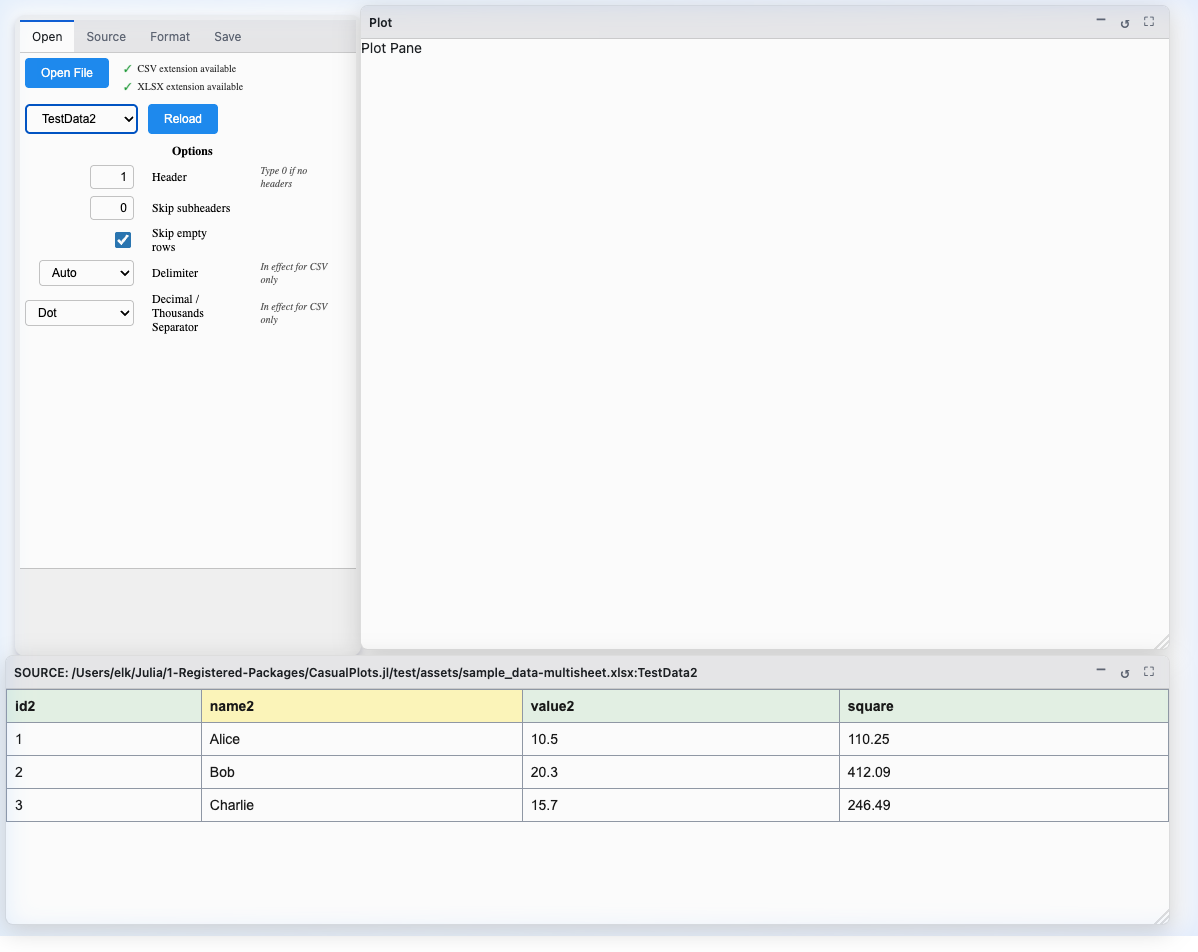
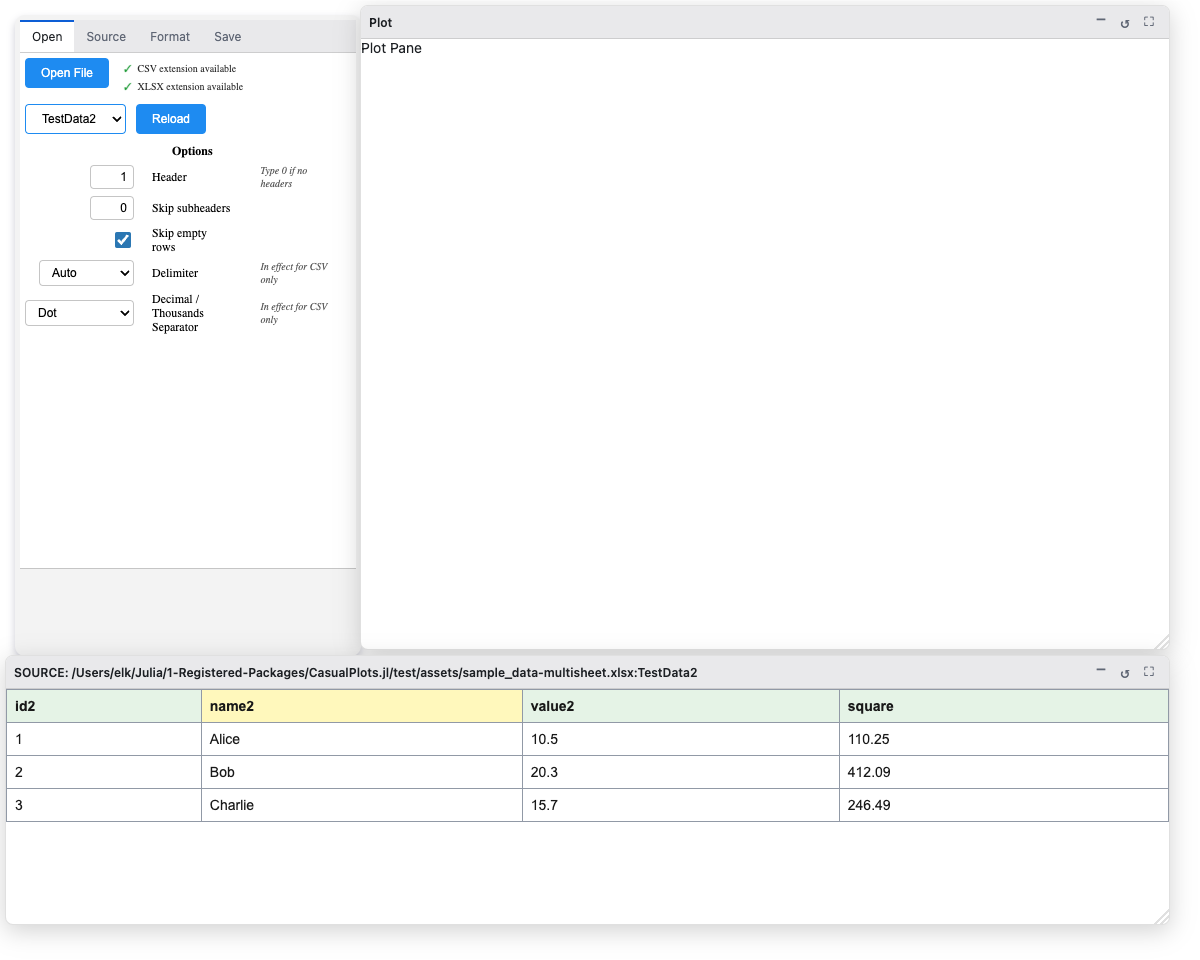
WIP creating screenshots programmatically

diff --git a/test/AgenticTesting/scripts/get_electron_id.swift b/test/AgenticTesting/scripts/get_electron_id.swift
@@ -1,0 +1,17 @@
+import Cocoa
+import CoreGraphics
+
+let options = CGWindowListOption(arrayLiteral: .excludeDesktopElements)
+if let windowInfoList = CGWindowListCopyWindowInfo(options, kCGNullWindowID) as? [[String: Any]] {
+    for info in windowInfoList {
+        if let owner = info[kCGWindowOwnerName as String] as? String,
+           let name = info[kCGWindowName as String] as? String,
+           let windowID = info[kCGWindowNumber as String] as? Int {
+            if owner == "Julia" && name == "Bonito App" {
+                print("\(windowID)")
+                exit(0)
+            }
+        }
+    }
+}
+exit(1)

diff --git a/AGENTS_more_info/specific_issues/agentic_screenshots.md b/AGENTS_more_info/specific_issues/agentic_screenshots.md
@@ -1,0 +1,55 @@
+# Agentic Creation of Reproducible Screenshots
+
+This document summarizes the established workflow for taking reproducible, automated screenshots of the `CasualPlots.jl` GUI via AI agents (or automated scripts) on macOS.
+
+## The Challenge
+`CasualPlots.jl` uses Bonito and WGLMakie, which rely heavily on WebSockets and JavaScript to render the DOM *after* the initial page load. 
+Because of this, standard headless browser capture commands (like `Google Chrome --headless --screenshot`) often fail or capture a blank 32KB white screen, because they execute the screenshot before the WebSockets have fully established and rendered the UI. 
+
+## The Solution: Electron + macOS `screencapture`
+The most robust native approach involves launching the app via `Electron.jl` (with the `frame=false` option to disable the macOS title bar), driving the UI programmatically using DOM interactions, and then using the macOS `screencapture` utility targeted at the Electron window's specific Window ID. 
+
+Using `screencapture -o -l <windowID>` captures the window cleanly without the OS drop shadow or window chrome, yielding a perfect crop of the internal Bonito UI.
+
+### Prerequisites
+- **Screen Recording Permissions**: The terminal running the automation (or the Antigravity agent) *must* be granted "Screen Recording" privileges in macOS System Settings > Privacy & Security.
+
+---
+
+## Complete Instructions for Agents to Reproduce a Snapshot
+
+If you (the Agent) are asked to update or reproduce a screenshot (for example, `docs/src/Screenshots/open_file_tab.png`), follow this exact protocol:
+
+1. **Locate the Generator**:
+   The logic for driving the GUI state is housed in `test/AgenticTesting/src/screenshot_generators.jl` inside the `AgenticTesting` module.
+   
+2. **Review/Update the GUI State**:
+   Open `screenshot_generators.jl` and ensure the function sets the GUI to the desired state. To simulate user interaction seamlessly, you can:
+   - Use `click_element_by_text(session, "Text")` to click buttons/tabs.
+   - Use `select_dropdown_value(session, css_selector, value)` to trigger dropdown changes.
+   - Temporarily `@eval` and override functions like `CasualPlots.FileDialogWorkAround.pick_file` if you need to bypass native OS dialogs (e.g., to force load a specific test file).
+   - Use `sleep()` strategically to wait for DOM updates and WebSocket communication.
+
+3. **Run the Standalone Script**:
+   Do **not** try to run the code line-by-line via the REPL. Instead, execute the prepared standalone runner script using the Kaimon subprocess workaround via the `ex` tool (to comply with development workflow rules regarding OS shell commands). This script activates the correct environment, loads necessary weak dependencies (like `CSV` and `XLSX`), and triggers the generator:
+   
+   **Run Command (via Kaimon `ex`):**
+   ```julia
+   run(pipeline(ignorestatus(`julia --project=test/AgenticTesting test/AgenticTesting/scripts/run_open_tab_screenshot.jl`), stdout="test_output.log", stderr="test_output.log"))
+   ```
+   *(Note: The `ex` tool may promote this to a background job; use `check_eval` and `agent_output` or view `test_output.log` to track progress and verify success.)*
+
+4. **Review and Iterate**:
+   The screenshot will be saved to `docs/src/Screenshots/tmp/open_file_tab_1.png` (or whichever path the script specifies). Review the generated image dimensions and UI state. If changes are needed, adapt the logic in `screenshot_generators.jl` and re-run.
+
+## Recent Improvements & Troubleshooting
+- **Scrollbar Removal**: To ensure the screenshot perfectly matches the 1200x960 viewport without Chromium's scrollbars, we programmatically hide them immediately before the macOS `screencapture` command:
+  ```julia
+  Bonito.evaljs(session, js"document.body.style.overflow = 'hidden';")
+  ```
+- **Session Initialization Bugs**: If the standalone script times out waiting for the Bonito session, it is likely because `Core.eval(Main, :(app = $local_app))` failed to correctly populate `Main.app` in a way that `get_active_session` could resolve. The robust fix is to pass the `app_obj` directly: `wait_for_session(local_app; timeout=15)`.
+
+### Reference Files
+- **Generator Logic**: [`test/AgenticTesting/src/screenshot_generators.jl`](../../test/AgenticTesting/src/screenshot_generators.jl)
+- **Standalone Runner Script**: [`test/AgenticTesting/scripts/run_open_tab_screenshot.jl`](../../test/AgenticTesting/scripts/run_open_tab_screenshot.jl)
+- **Swift Window ID Fetcher**: [`test/AgenticTesting/scripts/get_electron_id.swift`](../../test/AgenticTesting/scripts/get_electron_id.swift)

diff --git a/AGENTS.md b/AGENTS.md
@@ -134,6 +134,8 @@ See [Plot Architecture](AGENTS_more_info/specific_issues/plot_architecture.md) f
 
 See [Development Workflows](AGENTS_more_info/specific_issues/development_workflows.md) for UI modification guides, adding observables, debugging patterns, interactive agentic testing workflow, and SafeTestsets conventions.
 
+See [Agentic Screenshots](AGENTS_more_info/specific_issues/agentic_screenshots.md) for instructions on automating UI screenshots seamlessly through Electron without UI clutter.
+
 ### Precompilation
 
 See [Precompilation](AGENTS_more_info/specific_issues/precompilation.md) for details on PrecompileTools workload, Electron hidden window feature, and known limitations.

diff --git a/docs/src/changelog.md b/docs/src/changelog.md
@@ -3,6 +3,9 @@
 ### [0.10.0]
 
 _WIP_
+as of commit "Agents instructions refactored"
+3071af91e0a3428d1f57876e9437b033c1f8d77b
+22 August 2026 at 14:01
 
 **Added**
 - Matrices can now be selected as source alongside with `DataFrame`s
